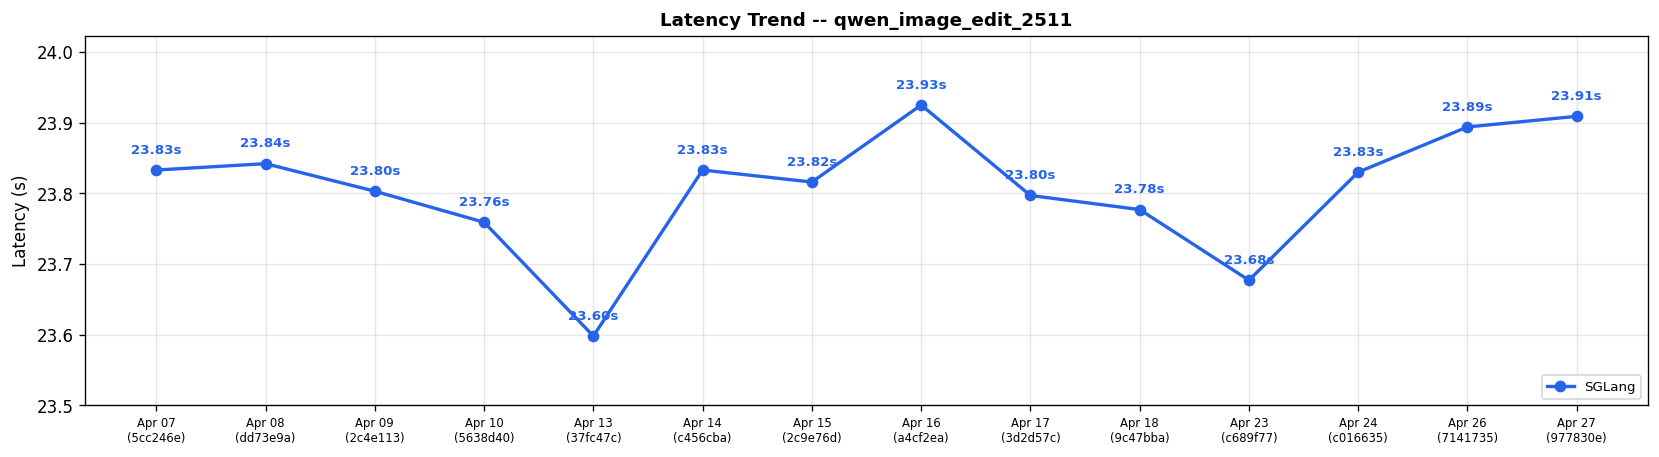
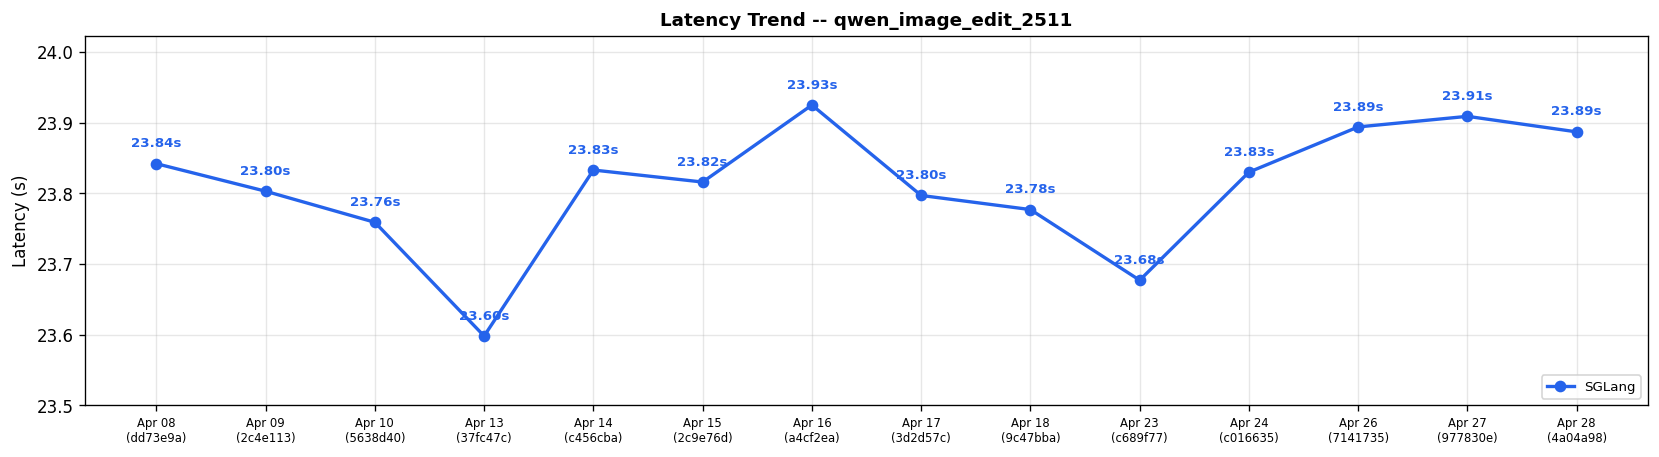
Diffusion comparison results for run 25027858196 (#583)

diff --git a/diffusion-comparisons/dashboard.md b/diffusion-comparisons/dashboard.md
@@ -1,21 +1,21 @@
 # Diffusion Cross-Framework Performance Dashboard
 
-*Generated: Apr 27 | Commit: `977830e`*
+*Generated: Apr 28 | Commit: `4a04a98`*
 
 ## Cross-Framework Performance Comparison
 
 | Model | Risk | sglang (s) |
 |-------|------|---------|
-| FLUX.1-dev | ✅ | **6.72** |
-| FLUX.2-dev | ✅ | **22.91** |
-| Qwen-Image-2512 | ✅ | **13.24** |
-| Qwen-Image-Edit-2511 | ✅ | **23.91** |
+| FLUX.1-dev | ✅ | **6.69** |
+| FLUX.2-dev | ✅ | **22.75** |
+| Qwen-Image-2512 | ✅ | **13.28** |
+| Qwen-Image-Edit-2511 | ✅ | **23.89** |
 | Z-Image-Turbo | ✅ | **0.89** |
-| Wan2.2-T2V-A14B-Diffusers | ✅ | **212.10** |
-| Wan2.2-TI2V-5B-Diffusers | ✅ | **63.20** |
-| LTX-2 | ✅ | **11.80** |
+| Wan2.2-T2V-A14B-Diffusers | ✅ | **211.33** |
+| Wan2.2-TI2V-5B-Diffusers | ✅ | **61.19** |
+| LTX-2 | ✅ | **11.84** |
 | LTX-2.3 | ❌ | N/A |
-| Wan2.2-I2V-A14B-Diffusers | ✅ | **208.53** |
+| Wan2.2-I2V-A14B-Diffusers | ✅ | **208.57** |
 
 ### Latency Trend: flux1_dev_t2i_1024
 
@@ -71,6 +71,7 @@
 
 | Date | Commit | flux1_dev_t2i_1024 (s) | flux2_dev_t2i_1024 (s) | qwen_image_2512_t2i_1024 (s) | qwen_image_edit_2511 (s) | zimage_turbo_t2i_1024 (s) | wan22_t2v_a14b_720p (s) | wan22_ti2v_5b_720p (s) | ltx2_twostage_t2v (s) | ltx2.3_twostage_ti2v_2gpus (s) | wan22_i2v_a14b_720p (s) | Trend |
 |------|--------|---------|---------|---------|---------|---------|---------|---------|---------|---------|---------|-------|
+| Apr 28 | `4a04a98` | 6.69 | 22.75 | 13.28 | 23.89 | 0.89 | 211.33 | 61.19 | 11.84 | N/A | 208.57 | :left_right_arrow:  :left_right_arrow:  :left_right_arrow:  :left_right_arrow:  :left_right_arrow:  :left_right_arrow:  :arrow_down:  :left_right_arrow:   :left_right_arrow: |
 | Apr 27 | `977830e` | 6.72 | 22.91 | 13.24 | 23.91 | 0.89 | 212.10 | 63.20 | 11.80 | N/A | 208.53 | :left_right_arrow:  :left_right_arrow:  :left_right_arrow:  :left_right_arrow:  :left_right_arrow:  :left_right_arrow:  :left_right_arrow:  :left_right_arrow:   :left_right_arrow: |
 | Apr 26 | `7141735` | 6.71 | 22.84 | 13.24 | 23.89 | 0.89 | 212.74 | 62.22 | 11.86 | N/A | 208.55 |          |
 | Apr 25 | `a4facdf` | N/A | N/A | N/A | N/A | N/A | N/A | N/A | N/A | N/A | N/A |          |
@@ -84,8 +85,7 @@
 | Apr 13 | `37fc47c` | 6.60 | 22.61 | 12.99 | 23.60 | 0.88 | 209.76 | 61.17 | 14.74 | N/A | 207.63 | :left_right_arrow:  :left_right_arrow:  :left_right_arrow:  :left_right_arrow:  :left_right_arrow:  :left_right_arrow:  :left_right_arrow:  :arrow_up:   :left_right_arrow: |
 | Apr 10 | `5638d40` | 6.68 | 22.78 | 13.16 | 23.76 | 0.88 | 209.41 | 62.16 | 14.21 | N/A | 204.58 | :left_right_arrow:  :left_right_arrow:  :left_right_arrow:  :left_right_arrow:  :left_right_arrow:  :left_right_arrow:  :left_right_arrow:  :arrow_down:   :left_right_arrow: |
 | Apr 09 | `2c4e113` | 6.71 | 22.93 | 13.20 | 23.80 | 0.89 | 210.35 | 62.16 | 14.71 | N/A | 206.54 | :left_right_arrow:  :left_right_arrow:  :left_right_arrow:  :left_right_arrow:  :left_right_arrow:  :left_right_arrow:  :left_right_arrow:  :arrow_down:   :left_right_arrow: |
-| Apr 08 | `dd73e9a` | 6.83 | 22.96 | 13.19 | 23.84 | 0.89 | 210.25 | 62.20 | 15.24 | N/A | 206.65 | :arrow_up:  :left_right_arrow:  :left_right_arrow:  :left_right_arrow:  :left_right_arrow:  :left_right_arrow:  :left_right_arrow:  :left_right_arrow:   :left_right_arrow: |
-| Apr 07 | `5cc246e` | 6.69 | 22.92 | 13.19 | 23.83 | 0.89 | 210.64 | 62.20 | 15.11 | N/A | 207.62 | -- |
+| Apr 08 | `dd73e9a` | 6.83 | 22.96 | 13.19 | 23.84 | 0.89 | 210.25 | 62.20 | 15.24 | N/A | 206.65 | -- |
 
 > [!CAUTION]
 > **Action Required — Performance Alert**
